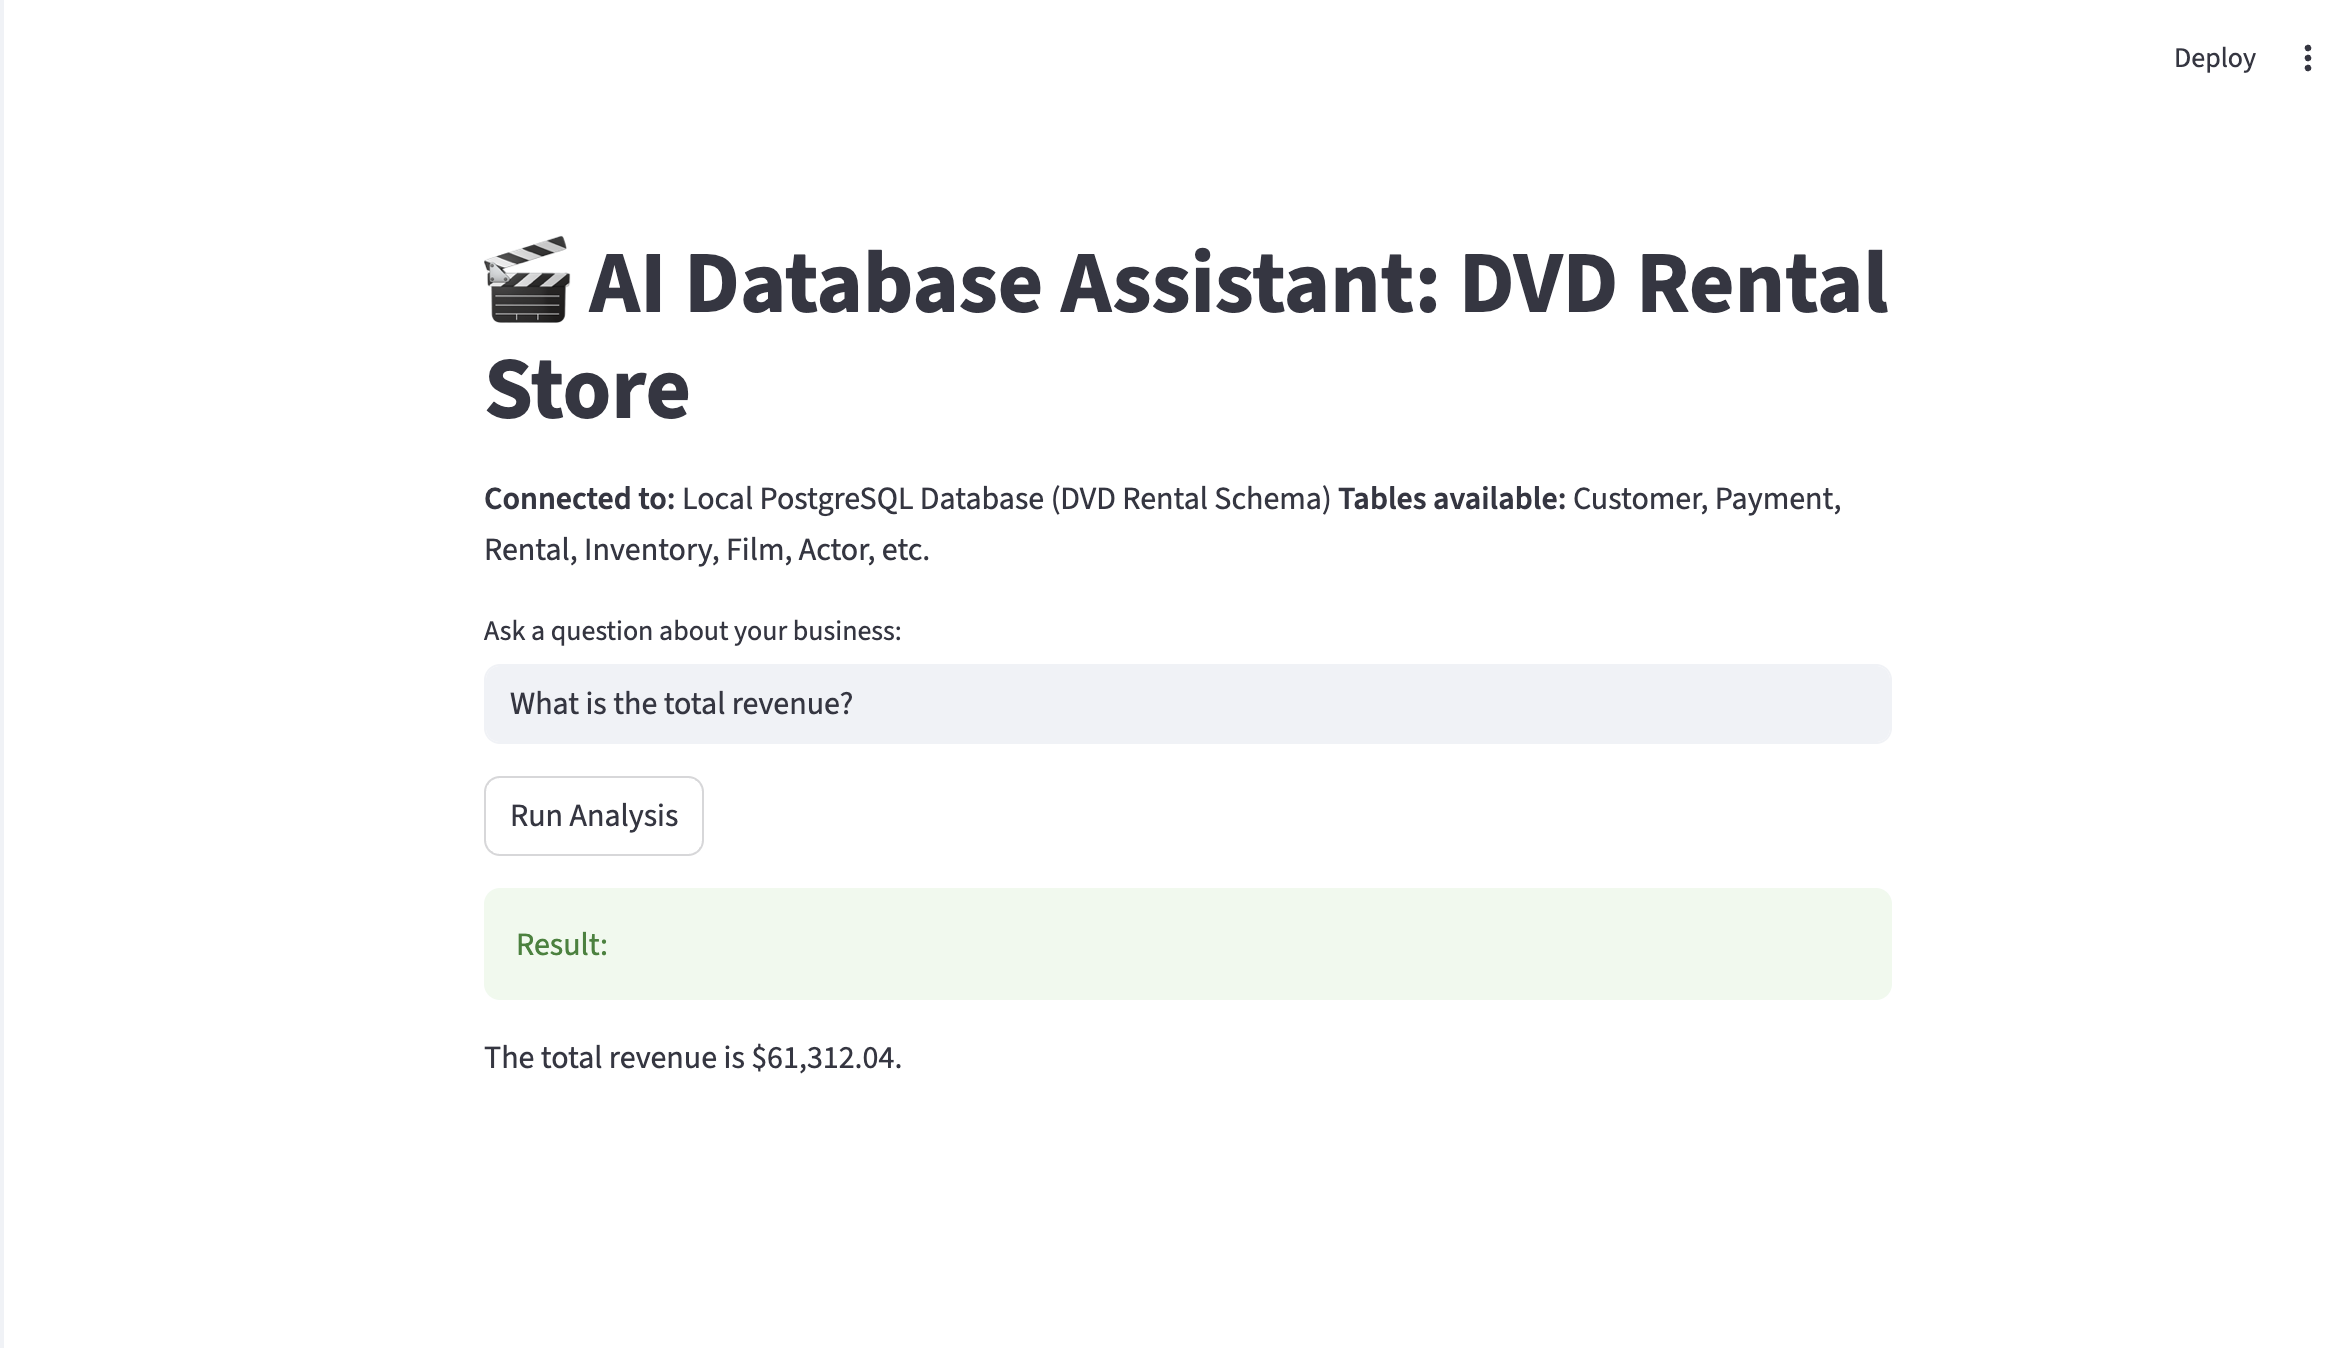
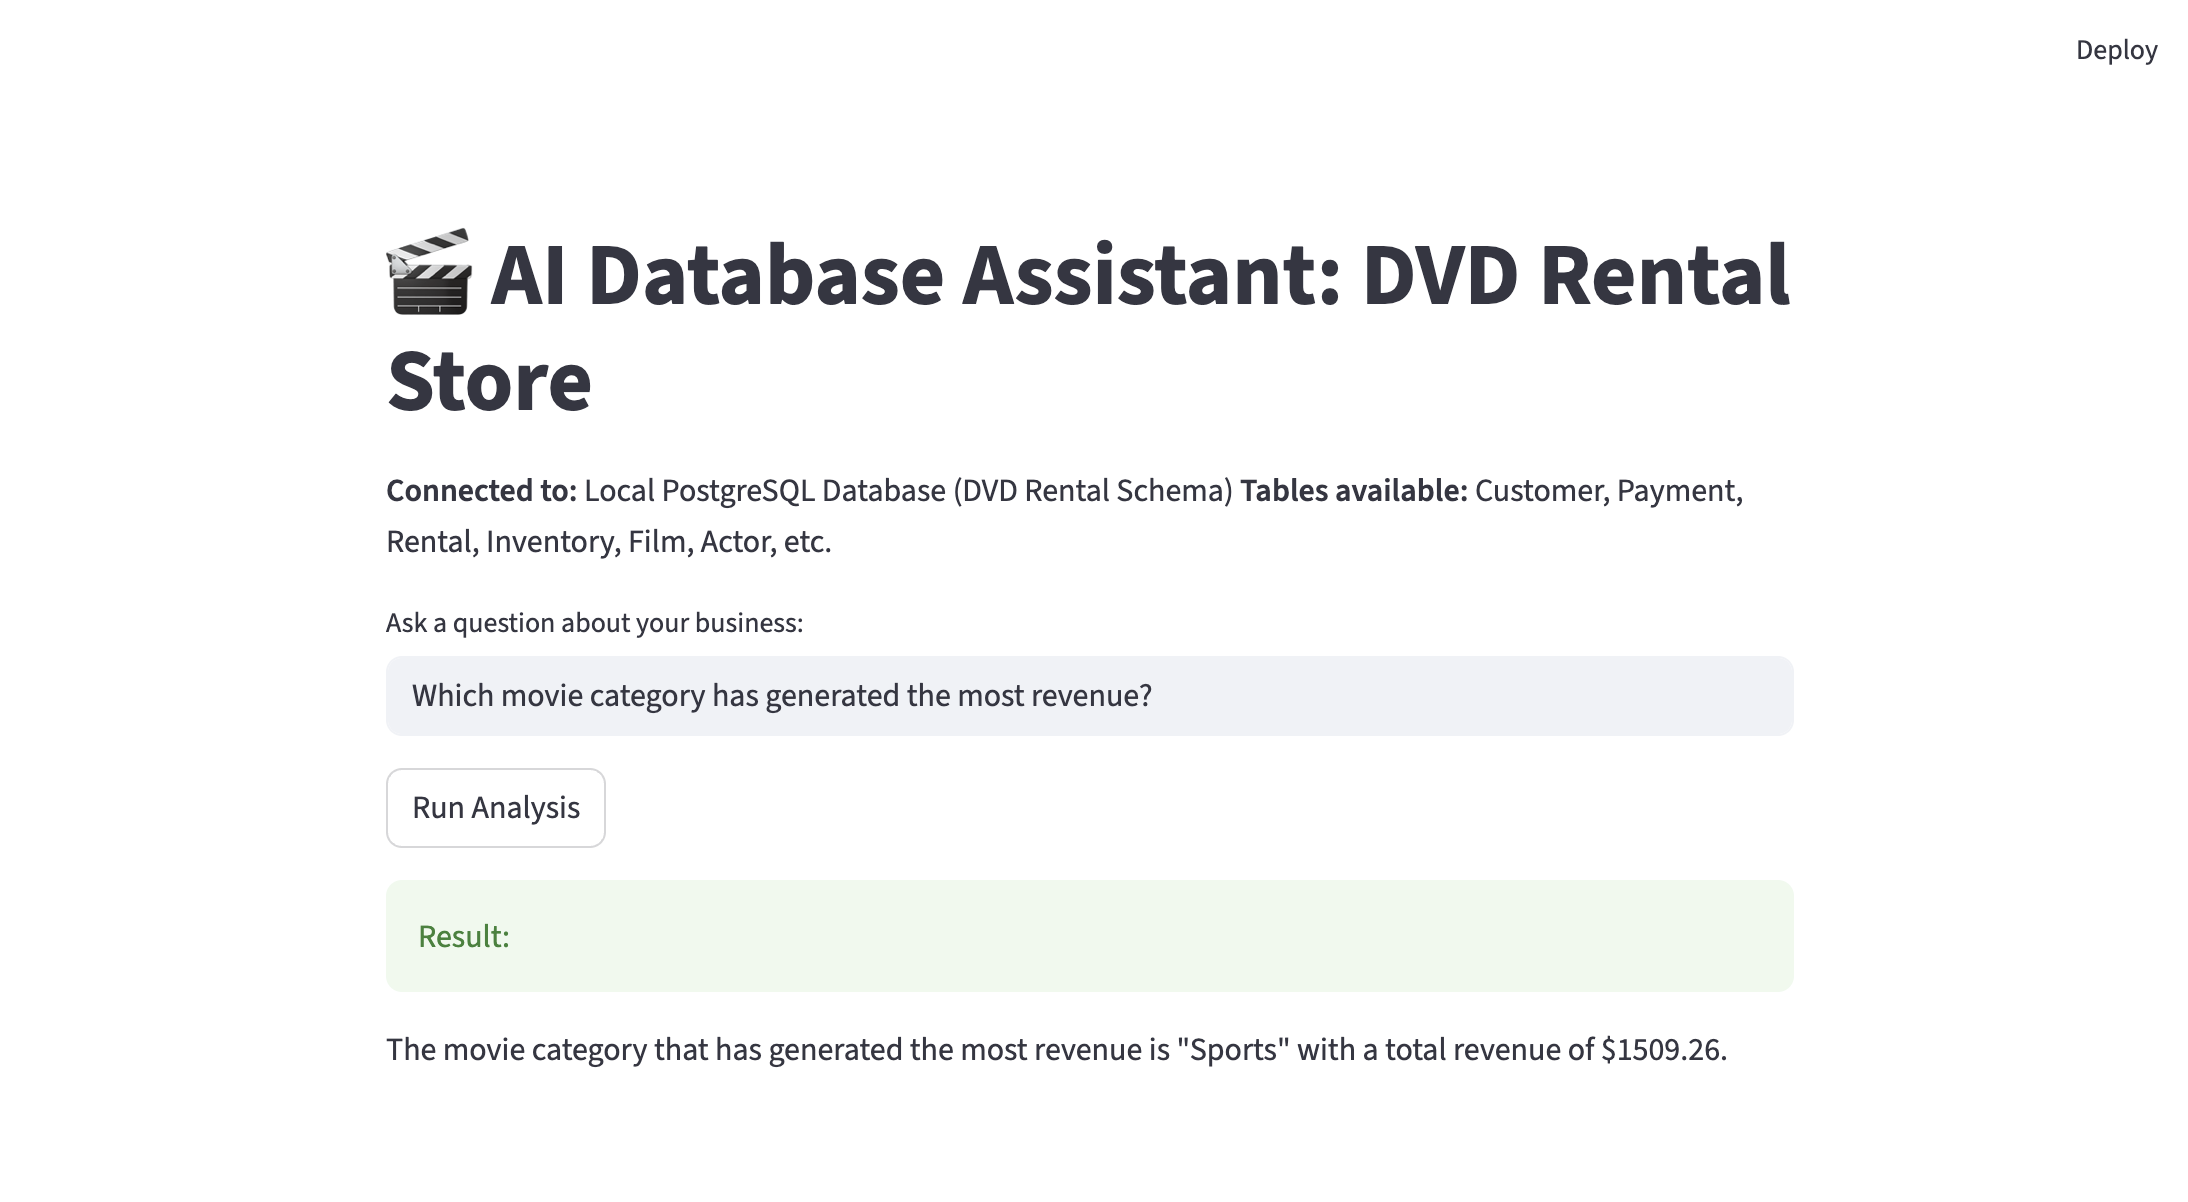
Update the demo to a five-table join

diff --git a/README.md b/README.md
@@ -13,7 +13,7 @@ The system automatically translates natural language into SQL queries, executes 
 
 ### 📸 Application Demo
 ![App Demo](demo.png)
-*(The AI Agent successfully navigating a complex Join across 3 tables: Payment → Rental → Inventory → Film)*
+*(The AI Agent successfully navigating a complex Join across 5 tables: Payment → Rental → Inventory → Film → Category)*
 
 ---
 
